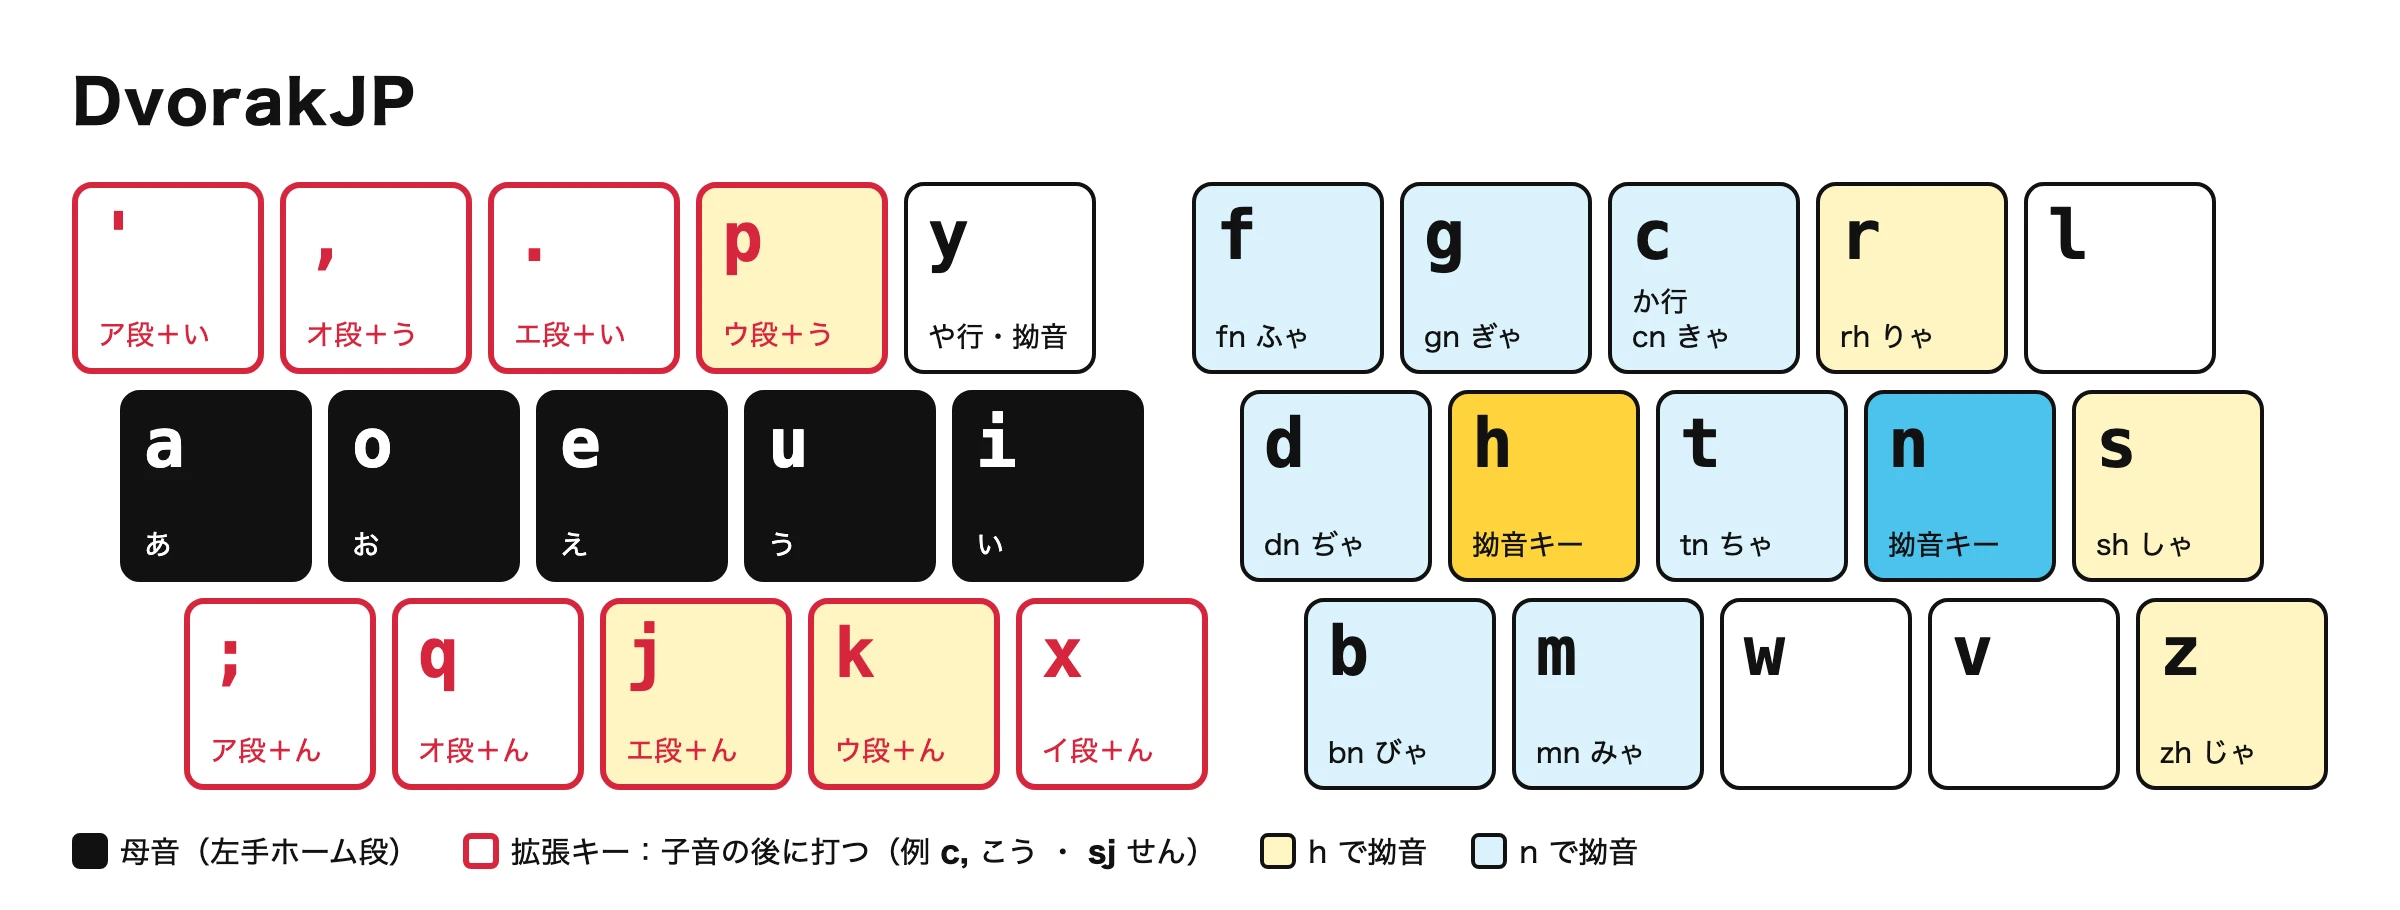
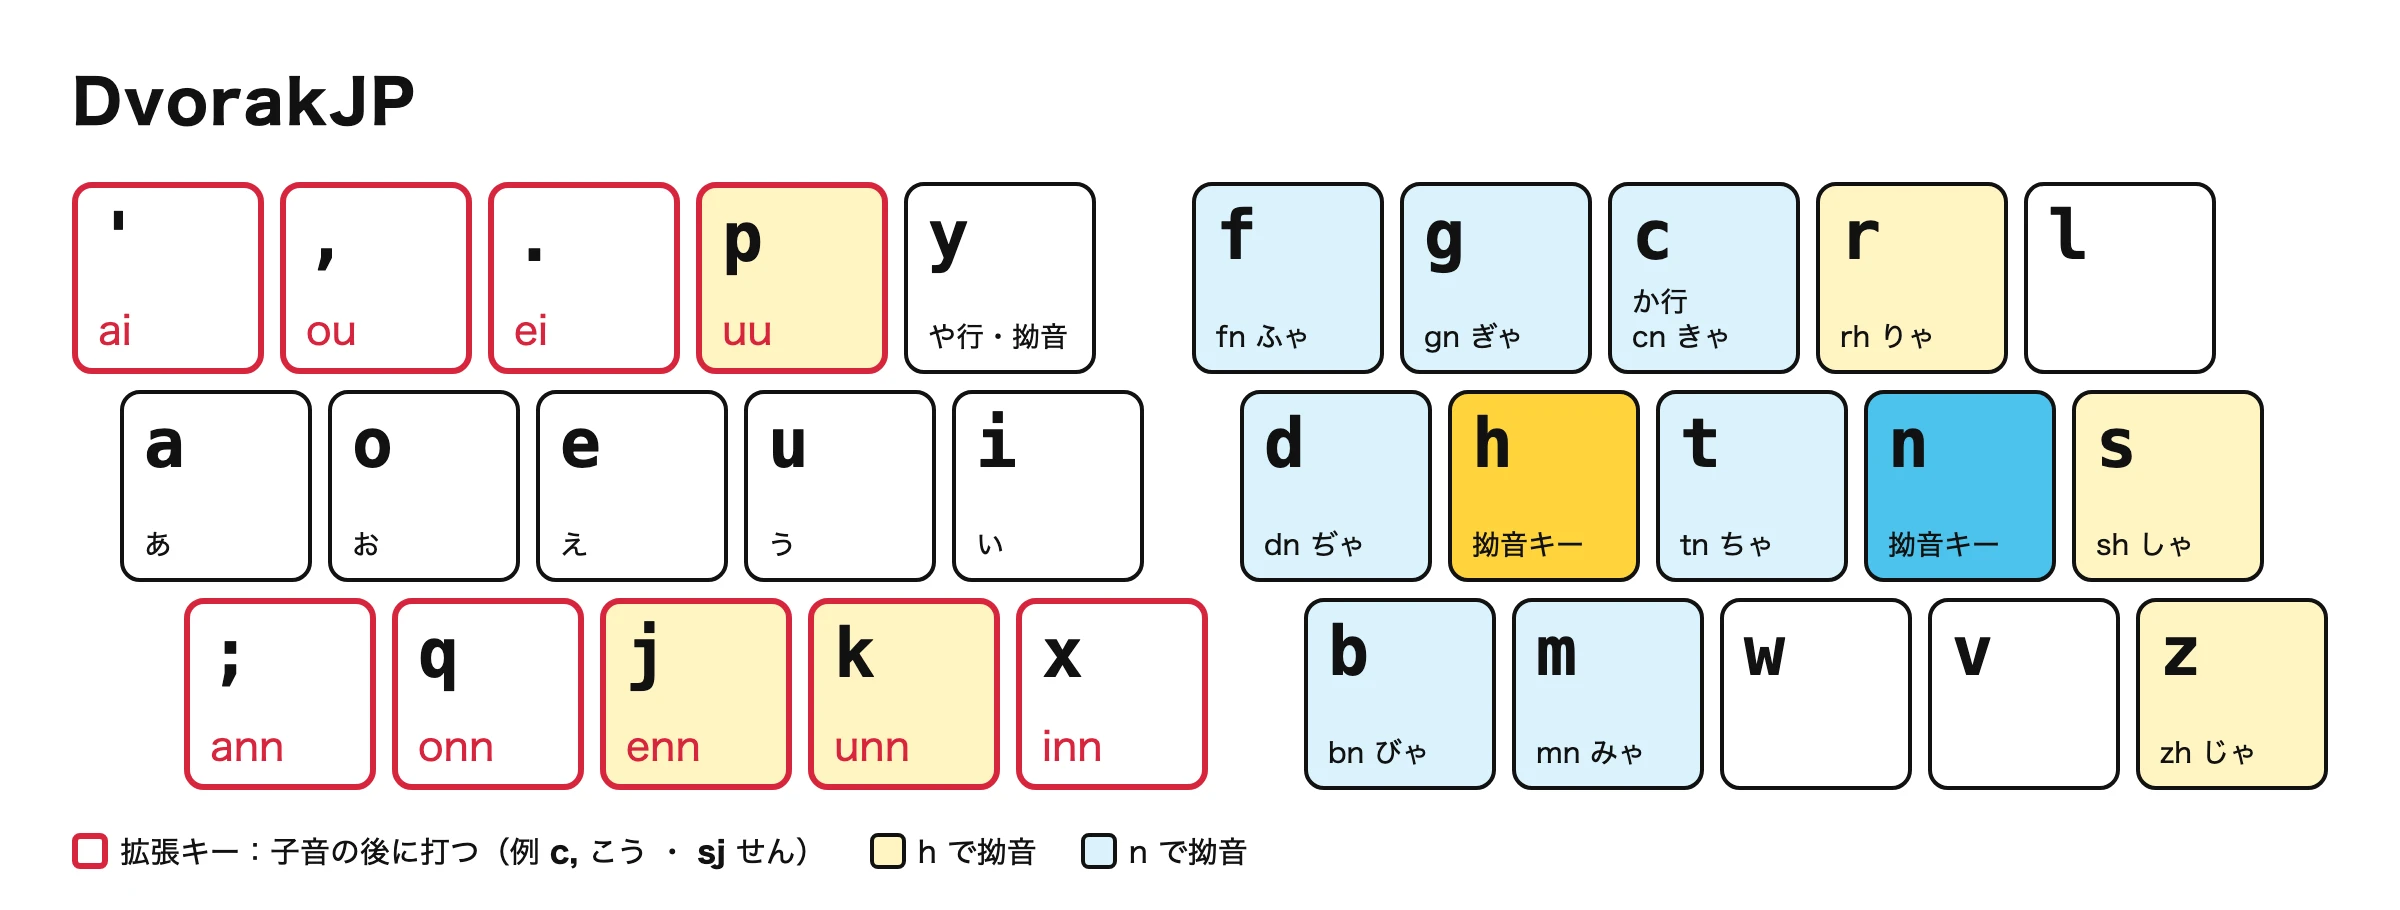
配列図の表記と色使いを見直す
- 拡張キーの働きを「ア段＋ん」などから ann / ai などのローマ字表記にし、大きく表示する
- 拡張キーを赤枠・白地に統一し、キー文字は黒、働きは赤字にする
- 母音キーの黒塗りをやめ、他のキーと同じ見た目にする
- 凡例を拡張キーの1項目にまとめ、lite には v' ない・pha ぴゃ の例を加える
- DvorakJP の p / j / k に h 拗音の背景を付ける
- 「元祖 DvorakJP」の表記を「DvorakJP」に改める

diff --git a/src/images/layout.html b/src/images/layout.html
@@ -7,40 +7,38 @@ h1 span{color:#d7263d}
 .k{width:96px;height:96px;border:2px solid #111;border-radius:10px;display:flex;flex-direction:column;justify-content:space-between;padding:8px 10px;background:#fff}
 .k b{font-size:34px;font-family:Menlo,monospace;line-height:1}
 .k i{font-style:normal;font-size:14px;line-height:1.25}
-.v{background:#111;color:#fff}
-.x{border-color:#d7263d;background:#d7263d;color:#fff}
-.n{border-color:#d7263d;color:#d7263d;border-width:3px}
+.k i .r{font-size:20px;line-height:1.1}
+.x{border-color:#d7263d;border-width:3px}
+.x i{color:#d7263d}
 .gap{width:32px}
 .legend{display:flex;gap:22px;margin-top:20px;font-size:15px;align-items:center}
 .sw{display:inline-block;width:18px;height:18px;border-radius:4px;border:2px solid #111;vertical-align:-3px;margin-right:6px}
 </style></head><body>
 <h1>DvorakJP <span>lite</span></h1>
 <div class="row" style="margin-left:0">
- <div class="k x"><b>'</b><i>（- も可）<br>ア段＋い</i></div>
- <div class="k x"><b>,</b><i>オ段＋う</i></div>
- <div class="k x"><b>.</b><i>エ段＋い</i></div>
- <div class="k x"><b>p</b><i>ウ段＋う</i></div>
+ <div class="k x"><b>'</b><i>（- も可）<br><span class="r">ai</span></i></div>
+ <div class="k x"><b>,</b><i><span class="r">ou</span></i></div>
+ <div class="k x"><b>.</b><i><span class="r">ei</span></i></div>
+ <div class="k x"><b>p</b><i><span class="r">uu</span></i></div>
  <div class="k"><b>y</b><i>や行・拗音</i></div>
  <div class="gap"></div>
  <div class="k"><b>f</b></div><div class="k"><b>g</b></div><div class="k"><b>c</b><i>か行</i></div><div class="k"><b>r</b></div><div class="k"><b>l</b></div>
 </div>
 <div class="row" style="margin-left:24px">
- <div class="k v"><b>a</b><i>あ</i></div><div class="k v"><b>o</b><i>お</i></div><div class="k v"><b>e</b><i>え</i></div><div class="k v"><b>u</b><i>う</i></div><div class="k v"><b>i</b><i>い</i></div>
+ <div class="k"><b>a</b><i>あ</i></div><div class="k"><b>o</b><i>お</i></div><div class="k"><b>e</b><i>え</i></div><div class="k"><b>u</b><i>う</i></div><div class="k"><b>i</b><i>い</i></div>
  <div class="gap"></div>
- <div class="k"><b>d</b></div><div class="k n"><b>h</b><i>p の拗音<br>ph ぴゃ</i></div><div class="k"><b>t</b></div><div class="k"><b>n</b><i>な行</i></div><div class="k"><b>s</b></div>
+ <div class="k"><b>d</b></div><div class="k x"><b>h</b><i>p の拗音<br>ph ぴゃ</i></div><div class="k"><b>t</b></div><div class="k"><b>n</b><i>な行</i></div><div class="k"><b>s</b></div>
 </div>
 <div class="row" style="margin-left:56px">
- <div class="k x"><b>;</b><i>ア段＋ん</i></div>
- <div class="k x"><b>q</b><i>オ段＋ん</i></div>
- <div class="k x"><b>j</b><i>エ段＋ん</i></div>
- <div class="k x"><b>k</b><i>ウ段＋ん</i></div>
- <div class="k x"><b>x</b><i>イ段＋ん</i></div>
+ <div class="k x"><b>;</b><i><span class="r">ann</span></i></div>
+ <div class="k x"><b>q</b><i><span class="r">onn</span></i></div>
+ <div class="k x"><b>j</b><i><span class="r">enn</span></i></div>
+ <div class="k x"><b>k</b><i><span class="r">unn</span></i></div>
+ <div class="k x"><b>x</b><i><span class="r">inn</span></i></div>
  <div class="gap"></div>
- <div class="k"><b>b</b></div><div class="k"><b>m</b></div><div class="k"><b>w</b></div><div class="k n"><b>v</b><i>な行の<br>拡張</i></div><div class="k"><b>z</b></div>
+ <div class="k"><b>b</b></div><div class="k"><b>m</b></div><div class="k"><b>w</b></div><div class="k x"><b>v</b><i>な行の<br>拡張</i></div><div class="k"><b>z</b></div>
 </div>
 <div class="legend">
- <span><span class="sw" style="background:#111"></span>母音（左手ホーム段）</span>
- <span><span class="sw" style="background:#d7263d;border-color:#d7263d"></span>拡張キー：子音の後に打つ（例 <b>c,</b> こう ・ <b>sj</b> せん）</span>
- <span><span class="sw" style="border-color:#d7263d;border-width:3px"></span>lite 独自：<b>v</b>＝な行の拡張（<b>vj</b> ねん）、<b>ph</b>＝ぴゃ行</span>
+ <span><span class="sw" style="border-color:#d7263d;border-width:3px"></span>拡張キー：子音の後に打つ（例 <b>c,</b> こう ・ <b>sj</b> せん ・ <b>v'</b> ない ・ <b>pha</b> ぴゃ）</span>
 </div>
 </body></html>

diff --git a/src/images/layout-dvorakjp.html b/src/images/layout-dvorakjp.html
@@ -7,8 +7,9 @@ h1 span{color:#d7263d}
 .k{width:96px;height:96px;border:2px solid #111;border-radius:10px;display:flex;flex-direction:column;justify-content:space-between;padding:8px 10px;background:#fff}
 .k b{font-size:34px;font-family:Menlo,monospace;line-height:1}
 .k i{font-style:normal;font-size:14px;line-height:1.25}
-.v{background:#111;color:#fff}
-.x{border-color:#d7263d;color:#d7263d;border-width:3px}
+.k i .r{font-size:20px;line-height:1.1}
+.x{border-color:#d7263d;border-width:3px}
+.x i{color:#d7263d}
 /* 拗音: h を使う子音は黄、n を使う子音は水色（本家の配色に合わせる） */
 .yh{background:#ffd43b}.yn{background:#4cc3ee}
 .th{background:#fff4c2}.tn{background:#d9f2fc}
@@ -18,30 +19,29 @@ h1 span{color:#d7263d}
 </style></head><body>
 <h1>DvorakJP</h1>
 <div class="row" style="margin-left:0">
- <div class="k x"><b>'</b><i>ア段＋い</i></div>
- <div class="k x"><b>,</b><i>オ段＋う</i></div>
- <div class="k x"><b>.</b><i>エ段＋い</i></div>
- <div class="k x th"><b>p</b><i>ウ段＋う</i></div>
+ <div class="k x"><b>'</b><i><span class="r">ai</span></i></div>
+ <div class="k x"><b>,</b><i><span class="r">ou</span></i></div>
+ <div class="k x"><b>.</b><i><span class="r">ei</span></i></div>
+ <div class="k x th"><b>p</b><i><span class="r">uu</span></i></div>
  <div class="k"><b>y</b><i>や行・拗音</i></div>
  <div class="gap"></div>
  <div class="k tn"><b>f</b><i>fn ふゃ</i></div><div class="k tn"><b>g</b><i>gn ぎゃ</i></div><div class="k tn"><b>c</b><i>か行<br>cn きゃ</i></div><div class="k th"><b>r</b><i>rh りゃ</i></div><div class="k"><b>l</b></div>
 </div>
 <div class="row" style="margin-left:24px">
- <div class="k v"><b>a</b><i>あ</i></div><div class="k v"><b>o</b><i>お</i></div><div class="k v"><b>e</b><i>え</i></div><div class="k v"><b>u</b><i>う</i></div><div class="k v"><b>i</b><i>い</i></div>
+ <div class="k"><b>a</b><i>あ</i></div><div class="k"><b>o</b><i>お</i></div><div class="k"><b>e</b><i>え</i></div><div class="k"><b>u</b><i>う</i></div><div class="k"><b>i</b><i>い</i></div>
  <div class="gap"></div>
  <div class="k tn"><b>d</b><i>dn ぢゃ</i></div><div class="k yh"><b>h</b><i>拗音キー</i></div><div class="k tn"><b>t</b><i>tn ちゃ</i></div><div class="k yn"><b>n</b><i>拗音キー</i></div><div class="k th"><b>s</b><i>sh しゃ</i></div>
 </div>
 <div class="row" style="margin-left:56px">
- <div class="k x"><b>;</b><i>ア段＋ん</i></div>
- <div class="k x"><b>q</b><i>オ段＋ん</i></div>
- <div class="k x th"><b>j</b><i>エ段＋ん</i></div>
- <div class="k x th"><b>k</b><i>ウ段＋ん</i></div>
- <div class="k x"><b>x</b><i>イ段＋ん</i></div>
+ <div class="k x"><b>;</b><i><span class="r">ann</span></i></div>
+ <div class="k x"><b>q</b><i><span class="r">onn</span></i></div>
+ <div class="k x th"><b>j</b><i><span class="r">enn</span></i></div>
+ <div class="k x th"><b>k</b><i><span class="r">unn</span></i></div>
+ <div class="k x"><b>x</b><i><span class="r">inn</span></i></div>
  <div class="gap"></div>
  <div class="k tn"><b>b</b><i>bn びゃ</i></div><div class="k tn"><b>m</b><i>mn みゃ</i></div><div class="k"><b>w</b></div><div class="k"><b>v</b></div><div class="k th"><b>z</b><i>zh じゃ</i></div>
 </div>
 <div class="legend">
- <span><span class="sw" style="background:#111"></span>母音（左手ホーム段）</span>
  <span><span class="sw" style="border-color:#d7263d;border-width:3px"></span>拡張キー：子音の後に打つ（例 <b>c,</b> こう ・ <b>sj</b> せん）</span>
  <span><span class="sw" style="background:#fff4c2"></span>h で拗音</span>
  <span><span class="sw" style="background:#d9f2fc"></span>n で拗音</span>

diff --git a/docs/index.html b/docs/index.html
@@ -58,7 +58,7 @@
       <p>オリジナルの <a href="#dvorakjp">DvorakJP</a> 拡張ルールの一部は、QWERTY ローマ字の「ん」の打ち方と衝突します。</p>
       <div class="table-wrap">
         <table>
-          <thead><tr><th>打鍵</th><th>QWERTY ローマ字</th><th>元祖 DvorakJP</th></tr></thead>
+          <thead><tr><th>打鍵</th><th>QWERTY ローマ字</th><th>DvorakJP</th></tr></thead>
           <tbody>
             <tr><td><code>un.</code></td><td>うん。</td><td>うねい</td></tr>
             <tr><td><code>enpou</code></td><td>えんぽう</td><td>えぬうおう</td></tr>

diff --git a/README.md b/README.md
@@ -35,7 +35,7 @@ DvorakJP lite では、衝突する拡張ルールを次の方針で扱い、QWE
 | ルール | DvorakJP | DvorakJP lite | 補足 |
 |---|---|---|---|
 | **か行** | `ca` `ci` `cu` `ce` `co` | 維持 | |
-| **きゃ行** | `cna` `cnu` `cno`（`kha` 系も可） | `cya` `cyu` `cyo` | h/n 拗音拡張に依存しないため。元祖では `cya` = ちゃ なので意味が異なる |
+| **きゃ行** | `cna` `cnu` `cno`（`kha` 系も可） | `cya` `cyu` `cyo` | h/n 拗音拡張に依存しないため。DvorakJP では `cya` = ちゃ なので意味が異なる |
 | **な行＋二重母音** | `n'` `np` `n.` `n,` | `v'` `vp` `v.` `v,` | 出現頻度の低い「ゔぁ行＋二重母音」拡張入力は犠牲にする |
 | **な行＋ん** |`n;` `nx` `nk` `nj` `nq` | `v;` `vx` `vk` `vj` `vq` | 出現頻度の低い「ゔぁ行＋ん」拡張入力は犠牲にする |
 | **h拗音拡張** | `ph*` `rh*` `nh*` `zh*` etc. | `ph*` のみ採用 | Dvorak 配列で `y` 拗音では打ちにくい「ぴゃ行」に対処する。`nh*` は QWERTY の「ん＋は行」、`zh*` は `zh`(←) と衝突する |

diff --git a/src/images/README.md b/src/images/README.md
@@ -3,7 +3,7 @@
 | 元の HTML | 作る画像 |
 |---|---|
 | `layout.html` | `docs/images/layout.webp`（DvorakJP lite） |
-| `layout-dvorakjp.html` | `docs/images/layout-dvorakjp.webp`（元祖 DvorakJP） |
+| `layout-dvorakjp.html` | `docs/images/layout-dvorakjp.webp`（DvorakJP） |
 
 HTML を編集したら、リポジトリのルートで次を実行して webp を作り直します（macOS、Google Chrome と `cwebp` が必要）。`NAME` は作り直す図の名前です。
 
